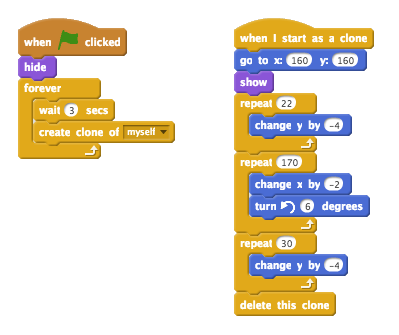
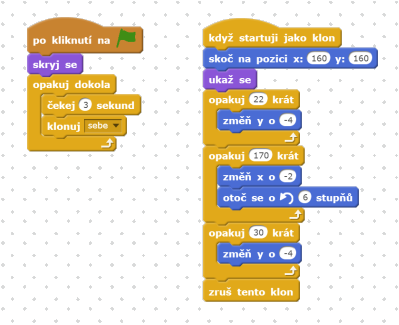
dodgeball

diff --git a/cs-CZ/Term 2/Dodgeball/Dodgeball.md b/cs-CZ/Term 2/Dodgeball/Dodgeball.md
@@ -152,123 +152,123 @@ Pojď upravit tvoji postavičku tak, aby byla více realistická přidáním gra
 
 ## Ulož projekt { .save }
 
-## Výzva: Improved jumping {.challenge}
-Postava může vyskočit, kdykoliv je stiknut mezerník, i když je ve vzduchu. Vyzkoušej to tak, že během pádu z plošiny podržíš mezerník. Múžeš to opravit tak, že postava může skákat jen `když` {.blockcontrol} se dotýka plošiny?
+## Výzva: Vylepšené skákáni {.challenge}
+Postava může vyskočit, kdykoliv je stisknut mezerník, i když je ve vzduchu. Vyzkoušej to tak, že během pádu z plošiny podržíš mezerník. Múžeš to opravit tak, že postava může skákat jen `když` {.blockcontrol} se dotýka plošiny?
 
 ## Ulož projekt { .save }
 
 # Krok 3: Uhýbání balónům { .activity .new-page}
 
-Now that you've got your character moving around, let's add some balls for your character to avoid.
+Nyní, když máš postavu, která se pohybuje, přidej nějaké balóny, kterým se bude vyhýbat.
 
 ## Seznam úkolů { .check }
 
-+ Create a new ball sprite. You can choose any type of ball you like.
++ Přidej nový objekt pro balón, vyber jakýkoliv se ti bude líbit..
 
 	![screenshot](dodge-balls.png)
 
-+ Resize your ball, so that your character can jump over it. Try jumping over the ball to test it. 
++ Změn velikost tak, aby byla tvoje postava schopná ho přeskočit. Zkus ho přeskočit, abys to vyzkoušel(a). 
 
 	![screenshot](dodge-ball-resize.png)
 
-+ Add this code to your ball:
++ Přidej k balónu následující kód:
 
 	![screenshot](dodge-ball-motion.png)
 
-	This code creates a new ball clone every 3 seconds. Each new clone moves along the top platform.
+	Tento kód vytvoří kopii balónu každé tři vteřiny. Každý klon přesune na horní plošinu.
 
-+ Click the flag to test this out.
++ Klikni na vlajku a vyzkoušej to.
 
 	![screenshot](dodge-ball-test.png)
 
-+ Add more code to your ball sprite, so that they move across all 3 platforms.
++ Přidej k balónu více kódu, aby se pohyboval přes všechny plošiny.
 
 	![screenshot](dodge-ball-more-motion.png)
 
-+ Finally, you'll need code for when your character gets hit by a ball! Add this code to your ball sprite:
++ Nakonec budeš potřebovat kód, když balón trefí postavu! Přidej k balónu tento kód:
 
 	```blocks
-		when I start as a clone
-		forever
-			if < touching [Pico walking v]? > then
-				broadcast [hit v]
+		když startuji jako klon
+		opakuj dokola
+			když < dotýká se [Pico walking v]? > tak
+				rozešli všem [hit v]
 			end
 		end
 	```
 
-+ You'll also need to add code to your character, to move back to the start when they're hit:
++ Ke postavě musíš přidat kód, který ji přesune po zásahu balónem na začátek:
 
 	```blocks
-		when I receive [hit v]
-		point in direction (90 v)
-		go to x: (-210) y: (-120)
+		po obdržení zprávy [hit v]
+		natoč se směrem (90 v)
+		skoč na pozici x: (-210) y: (-120)
 	```	
 
-+ Test out your character and see if they go back to the start when they've been hit by a ball.
++ Otestuj postavičku a vyzkoušej jestli se po zásahu balónem dostane zpět na začátek.
 
 ## Ulož projekt { .save }
 
-## Výzva: Random balls {.challenge}
-The balls your character has to dodge all look the same, and always appear every 3 seconds. Can you improve them, so that they:
+## Výzva: Náhodné balóny {.challenge}
+Balóny, kterým se tvoje postava vyhýbá jsou stále stejné a objevují se vždy po 3 vteřinách. Může vylepšit hru tak, aby:
 
-+ don't all look the same?
-+ appear after a random amount of time?
-+ are a random size?
++ nevypadaly vždy stejně?
++ objevovaly se po náhodném čase?
++ měly různou velikost?
 
 ![screenshot](dodge-ball-random.png)
 
 ## Ulož projekt { .save }
 
-# Krok 4: Lasers! { .activity .new-page}
+# Krok 4: Lejzry! { .activity .new-page}
 
-Let's make your game a little harder to complete, by adding lasers!
+Udělejme hru těžší přidáním lejzrů!
 
 ## Seznam úkolů { .check }
 
-+ Add a new sprite to your game, called 'Laser'. It should have 2 costumes, called 'on' and 'off'.
++ Přidej nový objekt a nazvi ho 'Laser'. Musí mít dva kostýmy nazvané 'on' a 'off'.
 
 	![screenshot](dodge-lasers-costume.png)
 
-+ Place your new laser anywhere you like, between 2 platforms.
++ Umísti lejzr kamkoliv chceš mezi dvě plošiny.
 
 	![screenshot](dodge-lasers-position.png)
 
-+ Add code to your laser, to make it switch between the 2 costumes.
++ Přidej k laseru kód, který bude kostýmy přepínat.
 
 	```blocks
 		po kliknutí na ⚑
-		forever
-			switch costume to [on v]
-			wait (2) secs
-			switch costume to [off v]
-			wait (2) secs
+		opakuj dokola
+			změň kostým na [on v]
+			čekej (2) sekund
+			změň kostým na [off v]
+			čekej (2) sekund
 		end
 	```
 
-	If you prefer, you can `wait` {.blockcontrol} a `random` {.blockoperators} amount of time between costume changes.
+	Pokud chceš, můžeš `čekat` {.blockcontrol} `náhodné` {.blockoperators} množství času, mezi změnami kostýmu.
 
-+ Finally, add code to your laser, so that the 'hit' message is broadcast when the laser touches your character. This code will be the same as the code you added to your ball sprite.
++ Nakonec přidej lejzru kód, která pošle zprávu 'hit', když zasáhne hráče. Toto bude stejný kód, jako je u balónu.
 
-	You don't need to add any more code to your character - they already know what to do when they get hit!
+	K postavě není třeba dávat žádný kód, ta už ví, jak se chovat, když je zasažena!
 
-+ Test out your game to see if you can get past the laser. Change the `wait` {.blockcontrol} times in your code if the lasers are too easy or too hard.
++ Vyzkoušej hru, jestli se dá dostat skrz lejzr. Změn blok `čekej` {.blockcontrol} pokud je průchod moc těžký nebo lehký.
 
-## Výzva: More obstacles {.challenge}
-If you think your game is still too easy, you can add more obstacles to your level. You can add anything you like, but here are some ideas:
+## Výzva: Více překážek {.challenge}
+Pokud si myslíš, že je hra moc jednoduchá, přidej více překážek. Přidej cokoliv chceš, ale zde je pár nápadů:
 
-+ A flying killer butterfly;
-+ Platforms that appear and disappear;
-+ Falling tennis balls that must be avoided.
++ Lítající nebezpečný motýl;
++ Plošina, která se objevuje a mizí;
++ Padající tenisový míček, kterému se musíš vyhnut.
 
 ![screenshot](dodge-obstacles.png)
 
-You could even create more than one backdrop, and move to the next level when your character reaches the brown door:
+Navíc múžeš vytvořit více pozadí a přesunout hráče do další úrovně, když se dostane ke dveřím:
 
 ```blocks
-	if <touching color [#714300]?> then
-		switch backdrop to [next backdrop v]
-		go to x: (-210) y: (-120)
-		wait (1) secs
+	když <dotýká se barvy [#714300]?> tak
+		změň pozadí na [další pozadí v]
+		skoč na pozici x: (-210) y: (-120)
+		čekej (1) sekund
 	end
 ```
 
